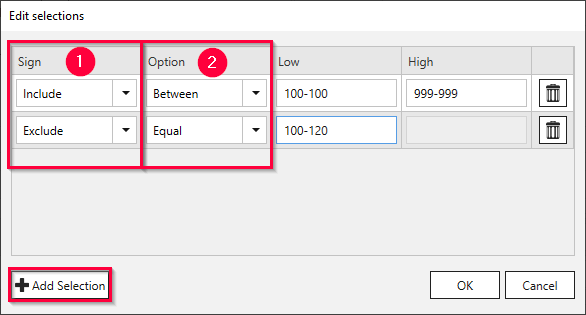
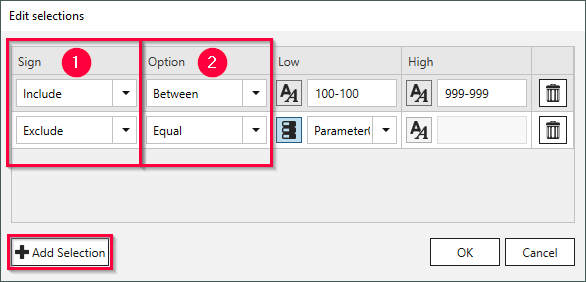
parameters

Changed region(s): [[0.0, 0.1135, 0.9829, 0.6241], [0.0, 0.766, 0.9829, 0.9645], [0.0, 0.0284, 0.1536, 0.0851]]

diff --git a/_includes/_content/de/sap-queries/varianten-selektionen.md b/_includes/_content/de/sap-queries/varianten-selektionen.md
@@ -57,7 +57,12 @@ Wählen Sie *Exclude* in der **Sign** (1) Spalte aus, um die gefilterten Daten v
    |LessOrEqual | Wahr, wenn die Daten kleiner als oder gleich dem Inhalt von Operand 1 sind.|
    |LessThan | Wahr, wenn die Daten kleiner sind als der Inhalt von Operand 1.|
    |(Not)Between | Wahr, wenn die Datenwerte (nicht) zwischen den Werten von Operand 1 und Operand 2 liegen. |
-5. Geben Sie die Werte direkt in die Eingabefelder **Low** und **High** ein oder weisen Sie der Selektion {% if page.product == "xtract-is"%}[SSIS-Variablen](./parametrisierung#parametrierung-mit-ssis-variablen){% else %}[Laufzeitparameter](./edit-runtime-parameters) zu{% endif %}. 
+5. Geben Sie die Werte direkt in die Eingabefelder **Low** und **High** ein oder weisen Sie der Selektion {% if page.product == "xtract-is"%}[SSIS-Variablen](./parametrisierung#parametrierung-mit-ssis-variablen){% else %}[Laufzeitparameter](./edit-runtime-parameters){% endif %} zu. 
+- Feste Werte: Geben Sie Werte direkt in die Eingabefelder unter **Low** und **High** ein.
+Wenn {% if page.product == "xtract-is"%}SSIS-Variablen{% else %}Laufzeitparameter{% endif %} verfügbar sind, prüfen Sie ob das ![static-value](/img/content/icons/runtime-parameters-static.png) Symbol neben dem Eingabefeld angezeigt wird.
+Mit einem Klick auf das Symbol wechseln Sie zwischen statischen und dynamischen Eingabewerten.
+- {% if page.product == "xtract-is"%}SSIS-Variablen{% else %}Laufzeitparameter{% endif %}: Klicken Sie auf das ![static-value](/img/content/icons/runtime-parameters-static.png) Symbol, um auf die definierten {% if page.product == "xtract-is"%}SSIS-Variablen{% else %}Laufzeitparameter{% endif %} zuzugreifen ( ![dynamic-value](/img/content/icons/runtime-parameters-dynamic.png) Symbol).
+Wählen Sie {% if page.product == "xtract-is"%}eine SSIS-Variable{% else %}einen Laufzeitparameter{% endif %} aus der Dropdown-Liste aus.
 6. Klicken Sie **[OK]**, um Ihre Eingabe zu bestätigen.
 
 Beachten Sie, dass bearbeitete Selektionsfelder die Selektionsfelder in der Variante überschreiben. 

diff --git a/_includes/_content/en/sap-queries/variants-selections.md b/_includes/_content/en/sap-queries/variants-selections.md
@@ -58,7 +58,12 @@ Select *Exclude* in the **Sign** (1) column to exclude the filtered data from th
    |LessOrEqual | True if data is less than or equal to the content of operand 1.|
    |LessThan | True if data is less than the content of operand 1.|
    |(Not)Between | True if data values do (not) lie between the values of operand 1 and operand 2. |
-5. Enter values directly into the **Low** and **High** input fields or assign {% if page.product == "xtract-is"%}[SSIS-Variables](./parametrization#parameterization-using-ssis-variables){% else %}[runtime parameters](./edit-runtime-parameters){% endif %} to the selection. 
+5. Enter values directly into the **Low** and **High** input fields or assign {% if page.product == "xtract-is"%}SSIS variables{% else %}[runtime parameters](./edit-runtime-parameters){% endif %} to the selection. 
+- Static values: Enter values directly into the **Low** and **High** input fields. 
+If {% if page.product == "xtract-is"%}SSIS variables{% else %}runtime parameters{% endif %} are available, make sure that the ![static-value](/img/content/icons/runtime-parameters-static.png) icon is displayed next to the input field.
+Clicking on the icon switches between static and dynamic input values.
+- {% if page.product == "xtract-is"%}SSIS variables:{% else %}Runtime parameters:{% endif %} Click ![static-value](/img/content/icons/runtime-parameters-static.png) to change the input type to dynamic values ![dynamic-value](/img/content/icons/runtime-parameters-dynamic.png).
+Select an existing {% if page.product == "xtract-is"%}SSIS variable{% else %}runtime parameter{% endif %} from the drop-down list.
 6. Click **[OK]** to confirm your input.
 
 Note that edited selection fields overwrite the selection fields in the variant. 

diff --git a/content/_en/xtract-is/abap-reports/variants-and-selections.md b/content/_en/xtract-is/abap-reports/variants-and-selections.md
@@ -54,7 +54,7 @@ Select *Exclude* in the **Sign** (3) column to exclude the filtered data from th
 - Static values: Enter values directly into the **Low** and **High** input fields. 
 If SSIS variables are available, make sure that the ![static-value](/img/content/icons/runtime-parameters-static.png) icon is displayed next to the input field.
 Clicking on the icon switches between static input values and SSIS variables.
-- SSIS variables: Click![static-value](/img/content/icons/runtime-parameters-static.png) to change the input type to variables ![dynamic-value](/img/content/icons/runtime-parameters-dynamic.png).
+- SSIS variables: Click ![static-value](/img/content/icons/runtime-parameters-static.png) to change the input type to variables ![dynamic-value](/img/content/icons/runtime-parameters-dynamic.png).
 Select an SSIS variable from the drop-down list.
 6. Click **[OK]** to confirm your input.
 7. Click **[Load Preview]** in the main widnow of the component to check the result of your selection. <br>

diff --git a/content/_en/xtract-is/query/parametrization.md b/content/_en/xtract-is/query/parametrization.md
@@ -41,7 +41,6 @@ Available SSIS variables are listed in the selection settings when parameter inp
 **Note**: The Xtract Report component does not support variables of the data types *DateTime* and *DBNull*. 
 For more information on the data types of system variables, see [Microsoft Help: System Variables](https://docs.microsoft.com/en-us/sql/integration-services/system-variables?view=sql-server-ver15).
 
-
 ****
 #### Related Links
 - [Dynamization of WHERE conditions of the XIS table components](https://kb.theobald-software.com/tables/xtract-is-Dynamization-of-WHERE-conditions-of-the-XIS-table-components).

diff --git a/content/_de/xtract-is/query/variants-and-selections.md b/content/_de/xtract-is/query/variants-and-selections.md
@@ -11,6 +11,7 @@ lang: de_DE
 old_url: /Xtract-IS-DE/default.aspx?pageid=queries-suchen-und-zuweisen
 ---
 
+
 {% include _content/de/sap-queries/varianten-selektionen.md %}
 
 ### Datenformat

diff --git a/content/_en/xtract-is/query/variants-and-selections.md b/content/_en/xtract-is/query/variants-and-selections.md
@@ -11,7 +11,6 @@ lang: en_GB
 old_url: /Xtract-IS-EN/default.aspx?pageid=searching-queries
 ---
 
-
 {% include _content/en/sap-queries/variants-selections.md %}
 
 ### Data Format
